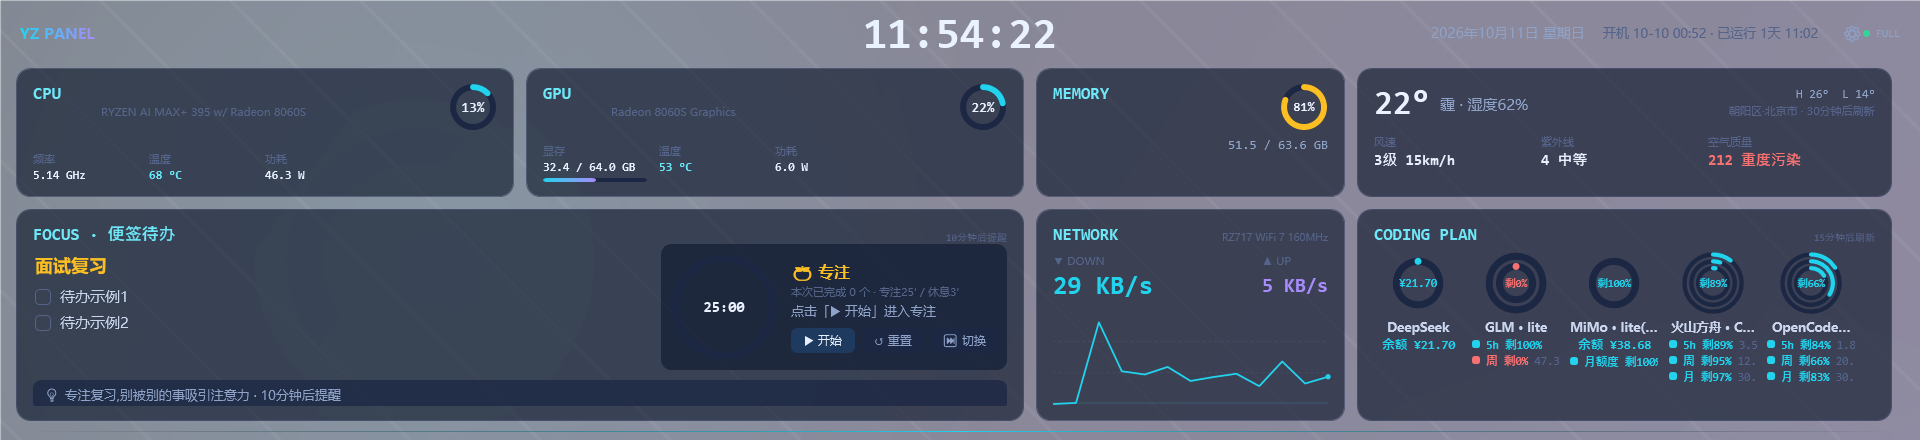
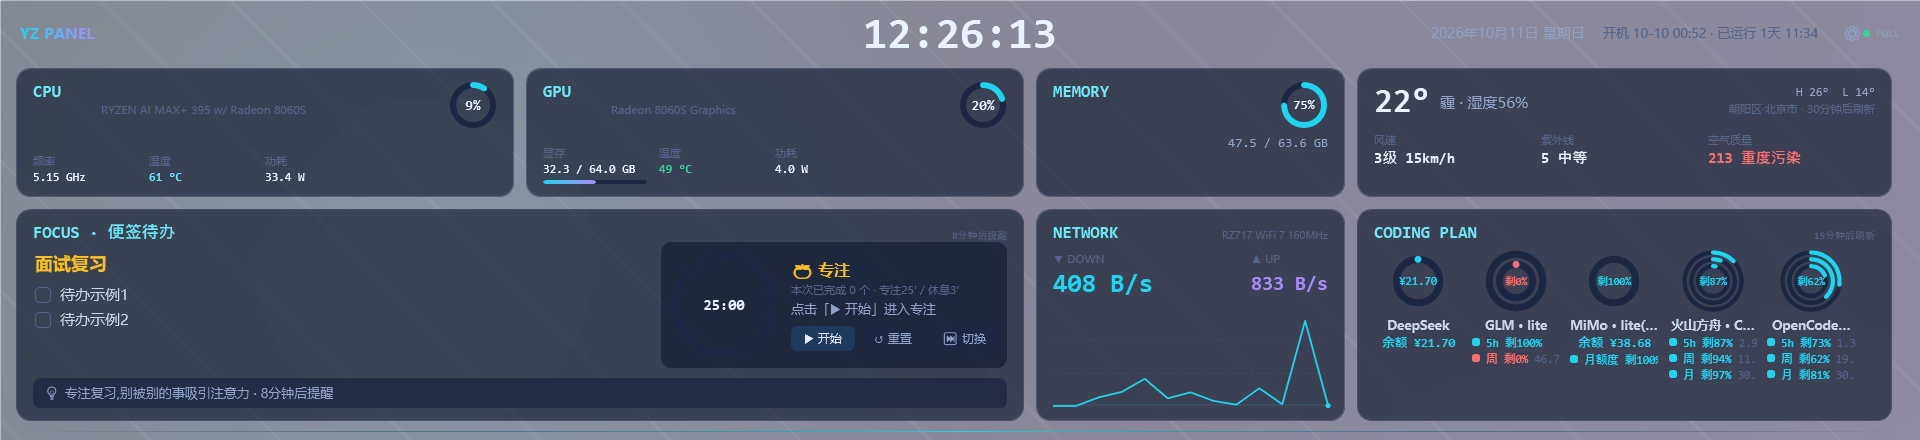
fix: 竖屏 CODING PLAN 底部被画布截断(OpenCode Go 周月行/底部线不可见)——竖屏排列整体收紧(历史图 96→80、网络图 52、条目边距/头部/进度条收紧),额度卡 MaxHeight=640 兜底(planScroll 内滚),横屏解除;break: 横屏四个磁贴空白根因为 cardCodingPlan.MaxHeight 赋 double.NaN 抛异常令 ArrangeLandscape 中断、四卡 MoveTo 未执行(WPF MaxHeight 不接受 NaN,已纠正为不赋值);feat: 加载态呼吸动画(额度「查询中…」/天气「获取位置…」占位文本闪烁

diff --git a/src/PerfPanel/MainWindow.xaml b/src/PerfPanel/MainWindow.xaml
@@ -32,7 +32,7 @@
                 </Grid.RowDefinitions>
 
                 <!-- ======================= 头部:品牌 / 时钟 ======================= -->
-                <StackPanel x:Name="portHeader" Grid.Row="0" Margin="20,18,20,0" Background="Transparent"
+                <StackPanel x:Name="portHeader" Grid.Row="0" Margin="20,14,20,0" Background="Transparent"
                             MouseLeftButtonDown="Header_OnMouseLeftButtonDown">
                     <Grid>
                         <TextBlock x:Name="txtBrandPort" Text="PERF PANEL" FontSize="15" FontWeight="Bold">
@@ -67,7 +67,7 @@
                 </StackPanel>
 
                 <!-- ======================= 中部:数据卡片 ======================= -->
-                <ScrollViewer Grid.Row="1" VerticalScrollBarVisibility="Hidden" Margin="16,14,16,0">
+                <ScrollViewer Grid.Row="1" VerticalScrollBarVisibility="Hidden" Margin="16,12,16,0">
                     <StackPanel x:Name="portCards">
 
                         <!-- CPU -->
@@ -381,7 +381,7 @@
                 </ScrollViewer>
 
                 <!-- ======================= 底部装饰 ======================= -->
-                <StackPanel x:Name="portFooter" Grid.Row="2" Margin="20,10,20,16">
+                <StackPanel x:Name="portFooter" Grid.Row="2" Margin="20,8,20,12">
                     <Border Height="1">
                         <Border.Background>
                             <LinearGradientBrush StartPoint="0,0" EndPoint="1,0">

diff --git a/src/PerfPanel/App.xaml b/src/PerfPanel/App.xaml
@@ -14,7 +14,7 @@
             <Setter Property="BorderBrush" Value="{DynamicResource CardBorderBrush}"/>
             <Setter Property="BorderThickness" Value="1"/>
             <Setter Property="CornerRadius" Value="14"/>
-            <Setter Property="Padding" Value="16,14"/>
+            <Setter Property="Padding" Value="16,12"/>
             <Setter Property="Margin" Value="0,0,0,12"/>
         </Style>
 

diff --git a/src/PerfPanel/MainWindow.xaml.cs b/src/PerfPanel/MainWindow.xaml.cs
@@ -130,8 +130,9 @@ public partial class MainWindow : Window
             topmost.Start();
         }
 
-        // 自截图:exe 旁存在 shot-request.txt(首行=输出 PNG 路径)时,启动 18s 后(传感器/额度已就绪)
-        // 以设计尺寸渲染整窗保存,随后删除请求文件。用于更新 README 效果图,不受屏幕捕获/DPI 影响。
+        // 自截图:exe 旁存在 shot-request.txt(首行=输出 PNG 路径)时,启动 18s 后等 UI 数据就绪
+        // (传感器已填充且额度查询结束,最长再等 42s)以设计尺寸渲染整屏保存,随后删除请求文件。
+        // 用于更新 README 效果图,不受屏幕捕获/DPI 影响;数据未就绪绝不截半初始化状态。
         _ = Task.Run(async () =>
         {
             ShotLog("queued"); // 任务已入队
@@ -143,10 +144,17 @@ public partial class MainWindow : Window
                 string outPath = File.ReadAllLines(marker).FirstOrDefault()?.Trim() ?? "";
                 if (outPath.Length == 0) { ShotLog("empty outPath"); return; }
                 ShotLog($"render {outPath}");
+                for (int i = 0; i < 42; i++)
+                {
+                    bool ready = await Dispatcher.InvokeAsync(IsShotDataReady);
+                    if (ready) { ShotLog("data ready"); break; }
+                    if (i == 41) ShotLog("render on timeout(数据就绪超时,兜底渲染)");
+                    await Task.Delay(1000);
+                }
+                // 渲染设计画布本身(440×1920 / 1920×440):不受窗口 letterbox 影响,
+                // 也避免设置窗口开着时把设置窗渲进去
                 await Dispatcher.InvokeAsync(() =>
                 {
-                    // 渲染设计画布本身(440×1920 / 1920×440):不受窗口 letterbox 影响,
-                    // 也避免设置窗口开着时把设置窗渲进去
                     var rtb = new RenderTargetBitmap((int)layoutRoot.ActualWidth, (int)layoutRoot.ActualHeight, 96, 96, PixelFormats.Pbgra32);
                     rtb.Render(layoutRoot);
                     var enc = new PngBitmapEncoder();
@@ -159,6 +167,16 @@ public partial class MainWindow : Window
             }
             catch (Exception ex) { ShotLog($"ERR {ex.GetType().Name}: {ex.Message}"); }
         });
+    }
+
+    /// <summary>自截图就绪门控:传感器名称已填充,且(若启用额度查询)查询已出结果。</summary>
+    private bool IsShotDataReady()
+    {
+        if (txtCpuName.Text.Length == 0 || txtGpuName.Text.Length == 0) return false;
+        var c = Config.Current;
+        if (c.ShowCodingPlan && _codingPlan.AnyKeyConfigured && _codingPlan.Current.Count == 0) return false;
+        if (c.ShowWeather && _weather.Current == null) return false;
+        return true;
     }
 
     /// <summary>自截图诊断日志(exe 旁 shot-last.log)。</summary>
@@ -295,6 +313,27 @@ public partial class MainWindow : Window
         return new SolidColorBrush(c);
     }
 
+    // ---------- 加载态:查询中占位呼吸 ----------
+
+    /// <summary>数据未就绪时占位文本呼吸闪烁(慢速往复),避免启动/查询期间面板显得"空死"。</summary>
+    private static void StartBreathing(TextBlock? tb)
+    {
+        if (tb == null) return;
+        var anim = new System.Windows.Media.Animation.DoubleAnimation(0.35, 1, new Duration(TimeSpan.FromSeconds(1.1)))
+        {
+            AutoReverse = true,
+            RepeatBehavior = System.Windows.Media.Animation.RepeatBehavior.Forever,
+        };
+        tb.BeginAnimation(TextBlock.OpacityProperty, anim);
+    }
+
+    private static void StopBreathing(TextBlock? tb)
+    {
+        if (tb == null) return;
+        tb.BeginAnimation(TextBlock.OpacityProperty, null);
+        tb.Opacity = 1;
+    }
+
     /// <summary>缩放:设计画布按 1/s 缩小,Viewbox 等比放大内容铺满屏幕(竖 440×1920 / 横 1920×440)。</summary>
     public void ApplyScale(double s)
     {
@@ -370,8 +409,8 @@ public partial class MainWindow : Window
         MoveTo(portFooter, txtFooter);
 
         txtTime.FontSize = 58;
-        txtTime.Margin = new Thickness(0, 10, 0, 0);
-        txtHint.Margin = new Thickness(0, 8, 0, 0);
+        txtTime.Margin = new Thickness(0, 8, 0, 0);
+        txtHint.Margin = new Thickness(0, 6, 0, 0);
         txtDate.Margin = new Thickness(0);
         txtDate.VerticalAlignment = VerticalAlignment.Stretch;
         txtUptime.Margin = new Thickness(0);
@@ -383,23 +422,24 @@ public partial class MainWindow : Window
                      cardCpu, cardGpu, cardMemory, cardNetwork, cardNotes, cardWeather, cardCodingPlan
                  })
         {
-            card.Margin = new Thickness(0, 0, 0, 12);
+            card.Margin = new Thickness(0, 0, 0, 10);
             MoveTo(portCards, card);
         }
 
-        // 竖版:大数字 + 进度条 + 历史曲线,统计 2×2 全量
+        // 竖版:历史曲线适度压缩,给 5 家额度卡河道留足(否则累计超过 1920 设计高度,CODING PLAN 会被截断)
         SetCompactTiles(compact: false);
         cpuGraph.Visibility = Visibility.Visible;
         gpuGraph.Visibility = Visibility.Visible;
-        cpuGraph.Height = 96;
-        gpuGraph.Height = 96;
-        netGraph.Height = 64;
+        cpuGraph.Height = 80;
+        gpuGraph.Height = 80;
+        netGraph.Height = 52;
+        cardCodingPlan.MaxHeight = 640;   // 兜底:额度卡超限时内部 planScroll 滚动,信息可达
         txtCpuName.MaxWidth = 240;
         txtGpuName.MaxWidth = 240;
         txtNoteText.FontSize = 15;
         txtNotesReminder.FontSize = 12;
         MoveTo(notesMainCol, gridPomodoro, 1);      // 竖屏窄:番茄钟堆叠回 便签 与 待办 之间
-        gridPomodoro.Margin = new Thickness(0, 12, 0, 0);
+        gridPomodoro.Margin = new Thickness(0, 10, 0, 0);
         ringPomo.Width = ringPomo.Height = 92;
         txtPomoPhase.FontSize = 15;
         txtPomoHint.FontSize = 12;
@@ -442,6 +482,9 @@ public partial class MainWindow : Window
         txtPomoPhase.FontSize = 16;
         txtPomoHint.FontSize = 13;
         _todoFontSize = 15;
+
+        // 解除竖屏限额(WPF MaxHeight 不接受 NaN,须用正无穷重置)
+        cardCodingPlan.MaxHeight = double.PositiveInfinity;
 
         MoveTo(landCpuCell, cardCpu);
         cardCpu.Margin = new Thickness(0, 0, 12, 12);
@@ -502,8 +545,8 @@ public partial class MainWindow : Window
             {
                 grid.RowDefinitions.Clear();
                 grid.ColumnDefinitions.Clear();
-                grid.RowDefinitions.Add(new RowDefinition { Height = GridLength.Auto, MinHeight = 46 });
-                grid.RowDefinitions.Add(new RowDefinition { Height = GridLength.Auto, MinHeight = 46 });
+                grid.RowDefinitions.Add(new RowDefinition { Height = GridLength.Auto, MinHeight = 42 });
+                grid.RowDefinitions.Add(new RowDefinition { Height = GridLength.Auto, MinHeight = 42 });
                 grid.ColumnDefinitions.Add(new ColumnDefinition { Width = new GridLength(1, GridUnitType.Star) });
                 grid.ColumnDefinitions.Add(new ColumnDefinition { Width = new GridLength(1, GridUnitType.Star) });
                 for (int i = 0; i < 4; i++)
@@ -769,7 +812,21 @@ public partial class MainWindow : Window
             return;
         }
         var w = _weather.Current;
-        if (w == null) return;
+        if (w == null)
+        {
+            // 天气/IP 定位尚未完成:显示占位卡(呼吸闪烁),避免上排磁贴旁整格空白
+            cardWeather.Visibility = Visibility.Visible;
+            UpdateLandscapeSpans();
+            txtWeatherTemp.Text = "--°";
+            txtWeatherDesc.Text = "";
+            txtWeatherRange.Text = "";
+            txtWeatherCity.Text = "获取位置/天气中…";
+            StartBreathing(txtWeatherCity);
+            txtWind.Text = "--"; txtUv.Text = "--";
+            cellAqi.Visibility = Visibility.Collapsed;
+            return;
+        }
+        StopBreathing(txtWeatherCity);
         cardWeather.Visibility = Visibility.Visible;
         UpdateLandscapeSpans();
         txtWeatherTemp.Text = $"{w.TempC:F0}°";
@@ -847,8 +904,10 @@ public partial class MainWindow : Window
         if (_codingPlan.Current.Count == 0)
         {
             txtPlanRefresh.Text = "查询中…";
+            StartBreathing(txtPlanRefresh);   // 额度查询进行中:占位文本呼吸闪烁
             return;
         }
+        StopBreathing(txtPlanRefresh);
         int remain = (int)Math.Ceiling((_codingPlan.LastRefreshUtc + CodingPlanService.RefreshInterval - DateTime.UtcNow).TotalMinutes);
         txtPlanRefresh.Text = remain > 0 ? $"{remain}分钟后刷新" : "刷新中…";
 
@@ -876,7 +935,7 @@ public partial class MainWindow : Window
     /// <summary>竖屏供应商区块:标题行(名称+主值) + 每限额窗口一行(标签/用量条/剩余/重置倒计时)。</summary>
     private static StackPanel BuildPlanSection(PlanStatus p)
     {
-        var panel = new StackPanel { Margin = new Thickness(0, 0, 0, 10) };
+        var panel = new StackPanel { Margin = new Thickness(0, 0, 0, 8) };
 
         // ---- 标题行 ----
         var head = new Grid { Margin = new Thickness(0, 0, 0, 0) };
@@ -1041,7 +1100,7 @@ public partial class MainWindow : Window
     private static Grid BuildPlanWindowRow(QuotaWindow w)
     {
         double used = w.UsedPercent ?? 0;
-        var row = new Grid { Margin = new Thickness(0, 7, 0, 0) };
+        var row = new Grid { Margin = new Thickness(0, 6, 0, 0) };
         row.ColumnDefinitions.Add(new ColumnDefinition { Width = GridLength.Auto });
         row.ColumnDefinitions.Add(new ColumnDefinition { Width = new GridLength(1, GridUnitType.Star) });
         row.ColumnDefinitions.Add(new ColumnDefinition { Width = GridLength.Auto });
@@ -1243,7 +1302,7 @@ public partial class MainWindow : Window
     {
         var row = new Grid
         {
-            Margin = new Thickness(2, 0, 2, 7),
+            Margin = new Thickness(2, 0, 2, 6),
             Background = Brushes.Transparent, // 空白处也可点击
             Cursor = Cursors.Hand,
         };
